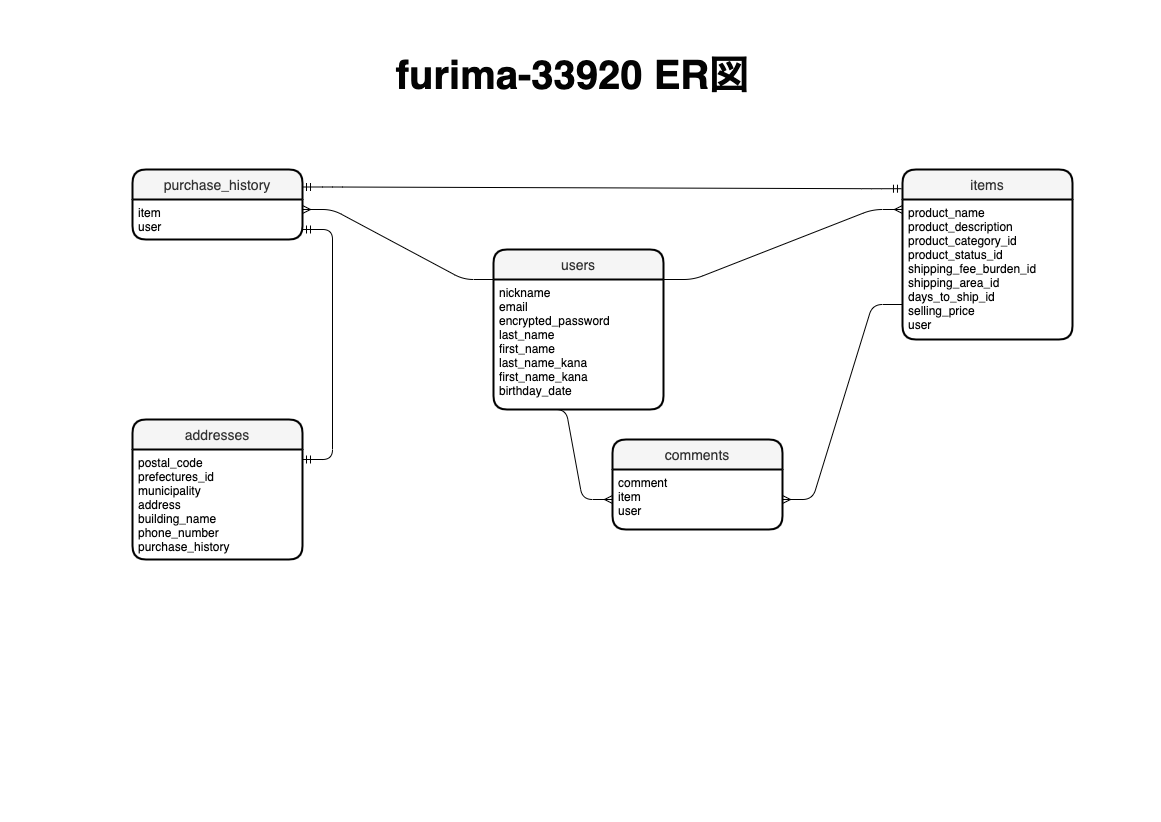
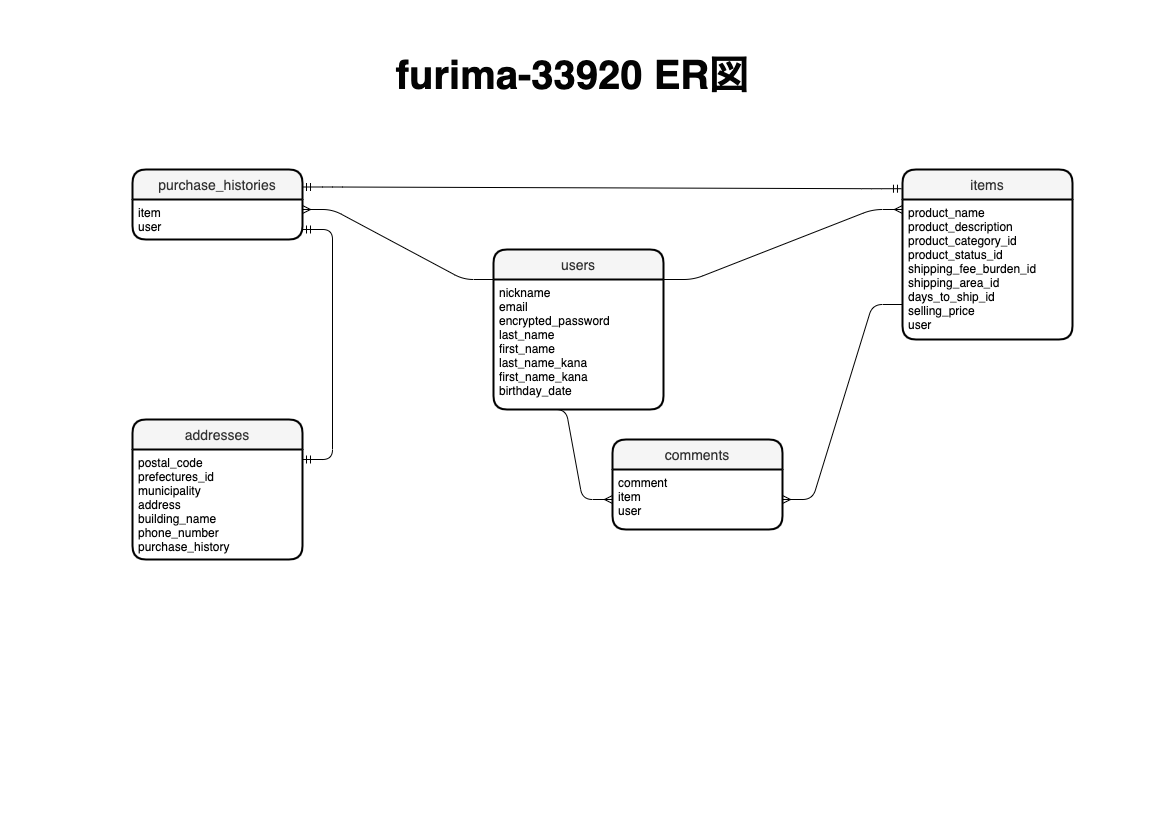
データベース設計(9回目)

diff --git a/README.md b/README.md
@@ -5,8 +5,8 @@
 | Column                         | Type                | Options                    |
 |--------------------------------|---------------------|----------------------------|
 | nickname(ニックネーム)           | string              | null: false                |
-| email(メールアドレス)            | string              | null: false,unique: true   |
-| encrypted_password(パスワード)  | string              | null: false,unique: true   |
+| email(メールアドレス)            | string              | null: false                |
+| encrypted_password(パスワード)  | string              | null: false                |
 | last_name(お名前(全角)苗字))     | string              | null: false                |
 | first_name(お名前(全角)名前))    | string              | null: false                |
 | last_name_kana(お名前(全角)苗字) | string              | null: false                |
@@ -23,20 +23,20 @@
 
 | Column                            | Type                | Options                         |
 |-----------------------------------|---------------------|---------------------------------|
-| product_name(商品名)               | string              | null: false                     |
-| product_description(商品の説明)     | text                | null: false                    |
-| product_category_id(カテゴリー)     | integer             | null: false,foreign_key: true  |
-| product_status_id(商品の状態)       | integer             | null: false,foreign_key: true  |
-| shipping_fee_burden_id(配送料の負担)| integer             | null: false,foreign_key: true  |
-| prefectures_id(発送元の地域)        | integer             | null: false,foreign_key: true  |
-| days_to_ship_id(発送までの日数)     | integer             | null: false,foreign_key: true  |
-| selling_price(販売価格)            | integer             | null: false,foreign_key: true  |
+| name(商品名)                       | string              | null: false                     |
+| description(商品の説明)             | text                | null: false                    |
+| category_id(カテゴリー)             | integer             | null: false                    |
+| status_id(商品の状態)               | integer             | null: false                    |
+| shipping_fee_burden_id(配送料の負担)| integer             | null: false                    |
+| prefectures_id(発送元の地域)        | integer             | null: false                    |
+| days_to_ship_id(発送までの日数)     | integer             | null: false                    |
+| selling_price(販売価格)            | integer             | null: false                    |
 | user(users table id参照)           | references          | null: false,foreign_key: true  |
 
 ### Association
 
 * has_many   :comments
-* has_one    :purchase_histories
+* has_one    :purchase_history
 * belongs_to :user
 
 ## purchase_histories table（購入履歴） 
@@ -58,10 +58,10 @@
 |-----------------------------------|-------------------------|---------------------------------------|
 | postal_code(郵便番号)              | string                  | null: false                           |
 | prefectures_id(都道府県)           | integer                 | null: false ,foreign_key: true        |
-| municipality(市区町村)             | string                  | null: false ,foreign_key: true        |
-| address(番地)                     | string                  | null: false ,foreign_key: true        |
-| building_name(建物名)              | string                 | foreign_key: true                      |
-| phone_number(電話番号)             | string                  | null:false ,foreign_key: true         |
+| municipality(市区町村)             | string                  | null: false                           |
+| address(番地)                     | string                  | null: false                           |
+| building_name(建物名)              | string                 |                                       |
+| phone_number(電話番号)             | string                  | null:false                            |
 | purchase_history(purchase_history table id参照)| references | null: false,foreign_key: true         |
 
 ### Association
